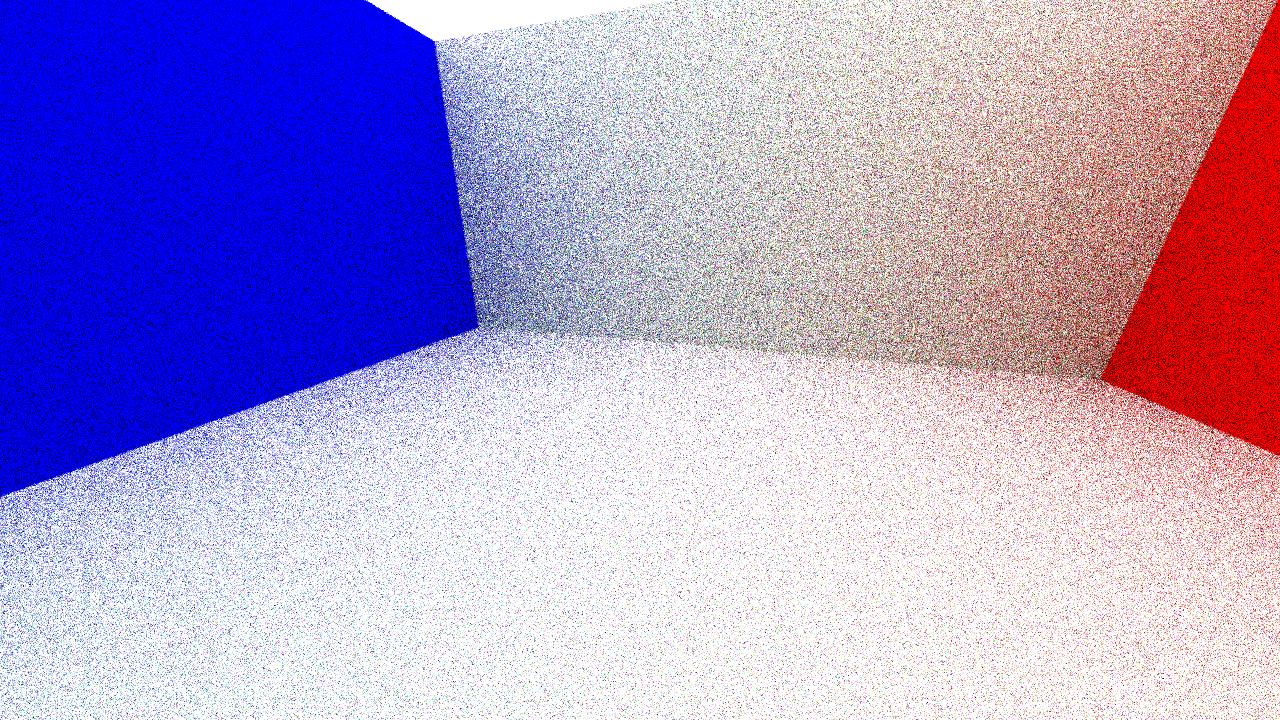
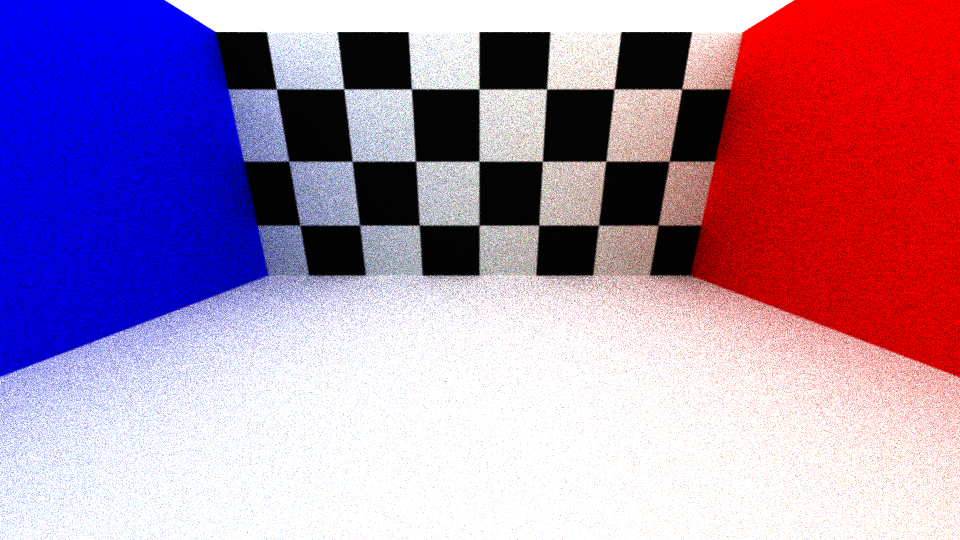
CUDA triangle 자료구조 변경

diff --git a/BrokenCrystal/NewBrokenCrystal/Scene.cpp b/BrokenCrystal/NewBrokenCrystal/Scene.cpp
@@ -320,7 +320,7 @@ void Scene::Idle()
 	if (isAnimation)
 	{
 		UpdateScene(0.06 * timeScale);
-		//CudaAnimationRendering(++animationFrame);
+		CudaAnimationRendering(++animationFrame);
 		animationTime += 0.06;
 		if (animationIndex == 1 && animationTime >= 11)
 		{
@@ -587,26 +587,42 @@ ObjectCU* Scene::CULoadObj(Object* object)
 		{
 			const Mesh* mesh = static_cast<const Mesh*>(object);
 			Triangle* t;
-			std::vector<float3>* triangles = new std::vector<float3>;
+			std::vector<TriangleCU*>* triangles = new std::vector<TriangleCU*>;	// contains device memory pointer to each TriangleCU
 			for (int i = 0; i < mesh->GetTriangles().size(); i++)
 			{
 				t = mesh->GetTriangles().at((unsigned)i);
-				triangles->push_back(make_float3(t->pos[0].getX(), t->pos[0].getY(), t->pos[0].getZ()) * transform);
+				TriangleCU* t_device;
+				TriangleCU t_struct;
+				t_struct.vertexes[0] = make_float3(t->pos[0].getX(), t->pos[0].getY(), t->pos[0].getZ()) * transform;
+				t_struct.vertexes[1] = make_float3(t->pos[1].getX(), t->pos[1].getY(), t->pos[1].getZ()) * transform;
+				t_struct.vertexes[2] = make_float3(t->pos[2].getX(), t->pos[2].getY(), t->pos[2].getZ()) * transform;
+				t_struct.color = t->GetMaterial().GetColorF();
+				t_struct.emission = t->GetMaterial().GetEmissionF();
+				t_struct.material = t->GetMaterial().GetType();
+				cudaMalloc((void**)&t_device, sizeof(TriangleCU));
+				cudaMemcpy(t_device, &t_struct, sizeof(TriangleCU), cudaMemcpyHostToDevice);
+				triangles->push_back(t_device);
+				/*triangles->push_back(make_float3(t->pos[0].getX(), t->pos[0].getY(), t->pos[0].getZ()) * transform);
 				triangles->push_back(make_float3(t->pos[1].getX(), t->pos[1].getY(), t->pos[1].getZ()) * transform);
-				triangles->push_back(make_float3(t->pos[2].getX(), t->pos[2].getY(), t->pos[2].getZ()) * transform);
+				triangles->push_back(make_float3(t->pos[2].getX(), t->pos[2].getY(), t->pos[2].getZ()) * transform);*/
 			}
-			float3* mesh_p;
-			unsigned int triangles_size = (unsigned int)(triangles->size() * sizeof(float3));
-			cudaMalloc((void**)&mesh_p, triangles_size);	//mesh_p contains device memory address for triangles
-			cudaMemcpy(mesh_p, triangles->data(), triangles_size, cudaMemcpyHostToDevice);
+			TriangleCU** mesh_p;
+			unsigned int triangles_size = (unsigned int)(triangles->size());
+			cudaMalloc((void**)&mesh_p, triangles_size * sizeof(TriangleCU*));	//mesh_p contains device memory address for triangles
+			cudaMemcpy(mesh_p, triangles->data(), triangles_size * sizeof(TriangleCU*), cudaMemcpyHostToDevice);
+
+			//float3* mesh_p;
+			//unsigned int triangles_size = (unsigned int)(triangles->size() * sizeof(float3));
+			//cudaMalloc((void**)&mesh_p, triangles_size);	//mesh_p contains device memory address for triangles
+			//cudaMemcpy(mesh_p, triangles->data(), triangles_size, cudaMemcpyHostToDevice);
 
 			ObjectCU* temp = new ObjectCU;
 			temp->triangles_size = triangles_size;
 			temp->triangles_num = (unsigned int)triangles->size();
 			temp->triangles_p = mesh_p;
-			temp->material = mesh->GetTriangles().at((unsigned)0)->GetMaterial().GetType();
-			temp->color = mesh->GetTriangles().at((unsigned)0)->GetMaterial().GetColorF();
-			temp->emission = mesh->GetTriangles().at((unsigned)0)->GetMaterial().GetEmissionF();;
+			//temp->material = mesh->GetTriangles().at((unsigned)0)->GetMaterial().GetType();
+			//temp->color = mesh->GetTriangles().at((unsigned)0)->GetMaterial().GetColorF();
+			//temp->emission = mesh->GetTriangles().at((unsigned)0)->GetMaterial().GetEmissionF();;
 
 			ObjectCU* object_p;
 			cudaMalloc((void**)&object_p, sizeof(ObjectCU));
@@ -619,53 +635,62 @@ ObjectCU* Scene::CULoadObj(Object* object)
 
 void Scene::DrawMeshDebugCU()
 {
-	std::vector<ObjectCU*> loaded_object;	//loaded_object contains array of device memory address of Object
-	int testval = 0;
-	for (auto & object : objects)
-	{
-		float transform[16];
-		object->GetTransform(transform);
+	//
+	//std::vector<ObjectCU*> loaded_object;	//loaded_object contains array of device memory address of Object
+	//int testval = 0;
+	//for (auto & object : objects)
+	//{
+	//	float transform[16];
+	//	object->GetTransform(transform);
 
-		const Mesh* mesh = static_cast<const Mesh*>(object);
-		Triangle* t;
-		std::vector<float3>* triangles = new std::vector<float3>;
-		for (int i = 0; i < mesh->GetTriangles().size(); i++)
-		{
-			t = mesh->GetTriangles().at((unsigned)i);
-			triangles->push_back(make_float3(t->pos[0].getX(), t->pos[0].getY(), t->pos[0].getZ()) * transform);
-			triangles->push_back(make_float3(t->pos[1].getX(), t->pos[1].getY(), t->pos[1].getZ()) * transform);
-			triangles->push_back(make_float3(t->pos[2].getX(), t->pos[2].getY(), t->pos[2].getZ()) * transform);
-		}
+	//	const Mesh* mesh = static_cast<const Mesh*>(object);
+	//	Triangle* t;
+	//	std::vector<TriangleCU*>* triangles = new std::vector<TriangleCU*>;	// contains device memory pointer to each TriangleCU
+	//	for (int i = 0; i < mesh->GetTriangles().size(); i++)
+	//	{
+	//		t = mesh->GetTriangles().at((unsigned)i);
+	//		TriangleCU* t_device;
+	//		TriangleCU t_struct;
+	//		t_struct.vertexes[0] = make_float3(t->pos[0].getX(), t->pos[0].getY(), t->pos[0].getZ()) * transform;
+	//		t_struct.vertexes[1] = make_float3(t->pos[1].getX(), t->pos[1].getY(), t->pos[1].getZ()) * transform;
+	//		t_struct.vertexes[2] = make_float3(t->pos[2].getX(), t->pos[2].getY(), t->pos[2].getZ()) * transform;
+	//		t_struct.color = t->GetMaterial().GetColorF();
+	//		t_struct.emission = t->GetMaterial().GetEmissionF();
+	//		t_struct.material = t->GetMaterial().GetType();
+	//		cudaMalloc((void**)&t_device, sizeof(TriangleCU));
+	//		cudaMemcpy(t_device, &t_struct, sizeof(TriangleCU), cudaMemcpyHostToDevice);
+	//		triangles->push_back(t_device);
+	//		/*triangles->push_back(make_float3(t->pos[0].getX(), t->pos[0].getY(), t->pos[0].getZ()) * transform);
+	//		triangles->push_back(make_float3(t->pos[1].getX(), t->pos[1].getY(), t->pos[1].getZ()) * transform);
+	//		triangles->push_back(make_float3(t->pos[2].getX(), t->pos[2].getY(), t->pos[2].getZ()) * transform);*/
+	//	}
 
 
-		unsigned int triangles_size = (unsigned int)(triangles->size() * sizeof(float3));
+	//	unsigned int triangles_size = (unsigned int)(triangles->size() * sizeof(float3));
 
-		ObjectCU* temp = new ObjectCU;
-		temp->triangles_size = triangles_size;
-		temp->triangles_num = (unsigned int)triangles->size();
-		temp->triangles_p = triangles->data();
-		temp->material = object->GetMaterial().GetType();
-		temp->color = object->GetMaterial().GetColorF();
-		temp->emission = object->GetMaterial().GetEmissionF();
+	//	ObjectCU* temp = new ObjectCU;
+	//	temp->triangles_size = triangles_size;
+	//	temp->triangles_num = (unsigned int)triangles->size();
+	//	temp->triangles_p = triangles->data();
 
-		loaded_object.push_back(temp);
-		std::cout << temp->triangles_p << std::endl;
-	}
+	//	loaded_object.push_back(temp);
+	//	std::cout << temp->triangles_p << std::endl;
+	//}
 
-	for (int i = 0; i < loaded_object.size(); i++)
-	{
-		ObjectCU* mesh = loaded_object[i];
-		
-		glColor3f(mesh->color.x, mesh->color.y, mesh->color.z);
+	//for (int i = 0; i < loaded_object.size(); i++)
+	//{
+	//	ObjectCU* mesh = loaded_object[i];
+	//	
+	//	glColor3f(mesh->color.x, mesh->color.y, mesh->color.z);
 
-		for (int i = 0; i < mesh->triangles_num; i += 3)
-		{
-			btVector3 p0 = btVector3(mesh->triangles_p[i].x, mesh->triangles_p[i].y, mesh->triangles_p[i].z);
-			btVector3 p1 = btVector3(mesh->triangles_p[i + 1].x, mesh->triangles_p[i + 1].y, mesh->triangles_p[i + 1].z);
-			btVector3 p2 = btVector3(mesh->triangles_p[i + 2].x, mesh->triangles_p[i + 2].y, mesh->triangles_p[i + 2].z);
-			DrawTriangle(p0, p1, p2);
-		}
-	}
+	//	for (int i = 0; i < mesh->triangles_num; i += 3)
+	//	{
+	//		btVector3 p0 = btVector3(mesh->triangles_p[i].x, mesh->triangles_p[i].y, mesh->triangles_p[i].z);
+	//		btVector3 p1 = btVector3(mesh->triangles_p[i + 1].x, mesh->triangles_p[i + 1].y, mesh->triangles_p[i + 1].z);
+	//		btVector3 p2 = btVector3(mesh->triangles_p[i + 2].x, mesh->triangles_p[i + 2].y, mesh->triangles_p[i + 2].z);
+	//		DrawTriangle(p0, p1, p2);
+	//	}
+	//}
 }
 
 void Scene::CudaAnimationRendering(int index)

diff --git a/BrokenCrystal/NewBrokenCrystal/TracePath.h b/BrokenCrystal/NewBrokenCrystal/TracePath.h
@@ -25,12 +25,20 @@
 
 #define EPSILON_CU 1e-10
 
-#define TRACE_SAMPLES 2
-#define TRACE_SAMPLES_LOOP_X 8
-#define TRACE_SAMPLES_LOOP_Y 8
+#define TRACE_SAMPLES 16
+#define TRACE_SAMPLES_LOOP_X 6
+#define TRACE_SAMPLES_LOOP_Y 6
 
 
 
+
+struct TriangleCU
+{
+	float3 vertexes[3];
+	MaterialType material;
+	float3 color;
+	float3 emission;
+};
 
 struct ObjectIntersectionCU
 {
@@ -58,17 +66,19 @@ struct ObjectCU
 		triangles_num = 0;
 		triangles_size = 0;
 		triangles_p = NULL;
-		material = DIFF;
-		color = make_float3(0.0f, 0.0f, 0.0f);
-		emission = make_float3(0.0f, 0.0f, 0.0f);
+		//material = DIFF;
+		//color = make_float3(0.0f, 0.0f, 0.0f);
+		//emission = make_float3(0.0f, 0.0f, 0.0f);
 	}
 	unsigned int triangles_num;	// number of triangle vertexes
 	unsigned int triangles_size; // byte size of triangles
-	float3* triangles_p;
+	/*float3* triangles_p;
 	MaterialType material;
 	float3 color;
-	float3 emission;
+	float3 emission;*/
+	TriangleCU** triangles_p;
 };
+
 
 
 class TracePath

diff --git a/BrokenCrystal/NewBrokenCrystal/main.cpp b/BrokenCrystal/NewBrokenCrystal/main.cpp
@@ -4,5 +4,5 @@ int main(int argc, char** argv)
 {
 	// 384, 216
 	Scene scene;
-	return glutmain(argc, argv, 384, 216, "SCV Path Tracing Demo", &scene);
+	return glutmain(argc, argv, 960, 540, "SCV Path Tracing Demo", &scene);
 }
